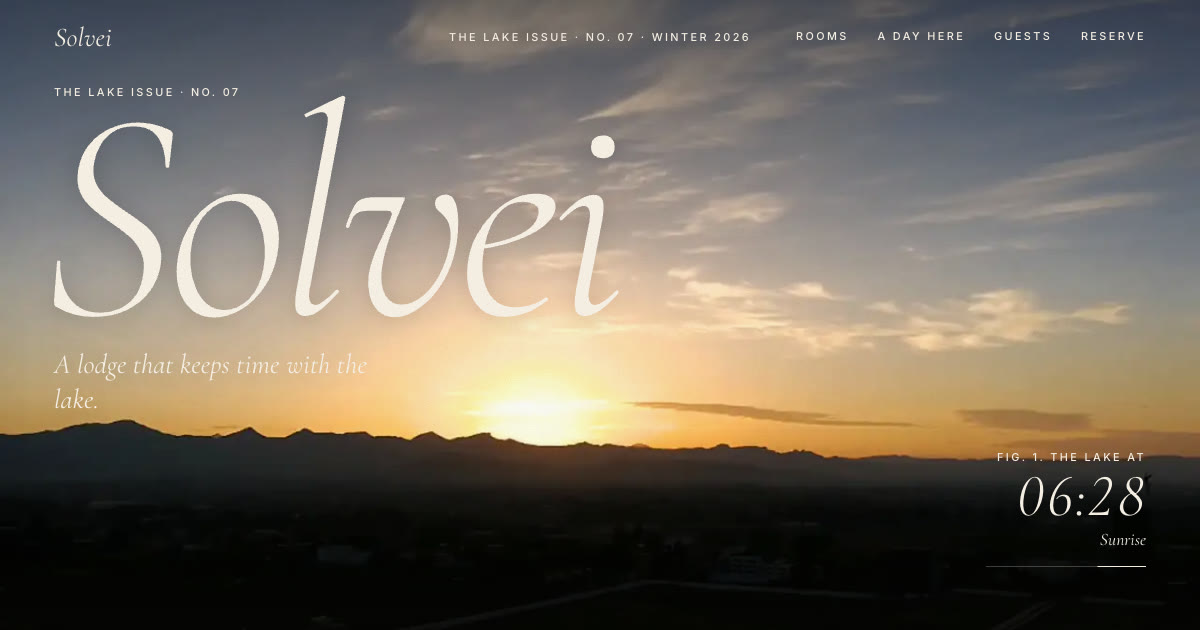
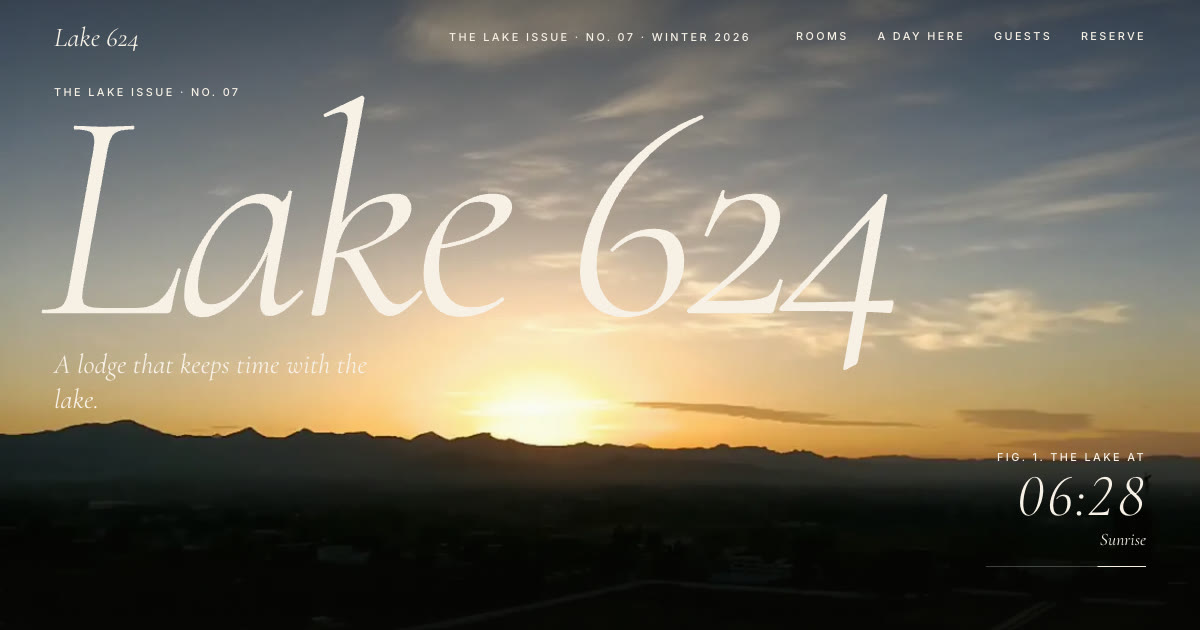
Rename template to Lake 624
Brand, masthead, meta, copy, map label, contact placeholders, footer and
README now use Lake 624. Repo links point to izharr99/lake-624 and the
README live URL to lake624.izhar.dev. Regenerated the OG image.

diff --git a/src/render/page.ts b/src/render/page.ts
@@ -138,7 +138,7 @@ function dayHTML(): string {
           <path class="map__route-bg" d="${ROUTE}"/>
           <path class="map__route" d="${ROUTE}" data-route/>
           <g data-markers></g>
-          <text class="map__label" x="500" y="360">Lake Solvei</text>
+          <text class="map__label" x="500" y="360">${esc(day.mapLabel)}</text>
           <g class="map__compass" transform="translate(930 620)"><path d="M0 -34L7 0L0 34L-7 0Z"/><text y="-42">N</text></g>
         </svg>
         <figcaption class="caption">Fig. 2. The route, drawn as the day goes by.</figcaption>

diff --git a/src/content.ts b/src/content.ts
@@ -101,7 +101,7 @@ export interface Content {
     perNight: string
     items: Room[]
   }
-  day: { kicker: string; title: string; body: string; stops: Stop[] }
+  day: { kicker: string; title: string; body: string; mapLabel: string; stops: Stop[] }
   reviews: { kicker: string; featured: Review; items: Review[]; rating: string }
   booking: {
     kicker: string

diff --git a/README.md b/README.md
@@ -1,12 +1,12 @@
-# Scrollcraft Travel
+# Lake 624: Hotel & Travel Template
 
 A free, static, scroll-driven website template for a hotel or travel resort, art-directed as a printed travel magazine: quiet luxury, paper and ink, Cormorant Garamond italics, folios, captions and drop caps. Scroll works as a playhead. A real time-lapse carries the hero from first light through sunrise, afternoon and sunset into blue hour. The camera then finds the lodge with its lights on, pushes in through the windows and lands in a room. Rooms turn past as magazine plates and open into a full spread, a route draws itself around the lake, and the issue closes with a concierge card that sends a prefilled reservation request over WhatsApp or email.
 
-The demo brand, **Solvei Lake Lodge**, is fictional. Everything about it lives in one file, `src/content.json`, so you can rebrand the whole site without touching any logic.
+The demo brand, **Lake 624**, is a fictional lodge. Everything about it lives in one file, `src/content.json`, so you can rebrand the whole site without touching any logic.
 
-**Live demo:** https://scrollcraft-travel.vercel.app
+**Live demo:** https://lake624.izhar.dev
 
-![Solvei hero at sunrise](public/og.jpg)
+![Lake 624 hero at sunrise](public/og.jpg)
 
 ## Features
 
@@ -106,4 +106,4 @@ Designed and built by [Muhammad Izhar](https://izhar.dev). Change `credits` in `
 
 ## License
 
-The code is MIT; see [LICENSE](LICENSE). Photographs and footage stay under the Pexels License. Solvei Lake Lodge, its rooms, reviews and contact details are fictional.
+The code is MIT; see [LICENSE](LICENSE). Photographs and footage stay under the Pexels License. Lake 624, its rooms, reviews and contact details are fictional.
